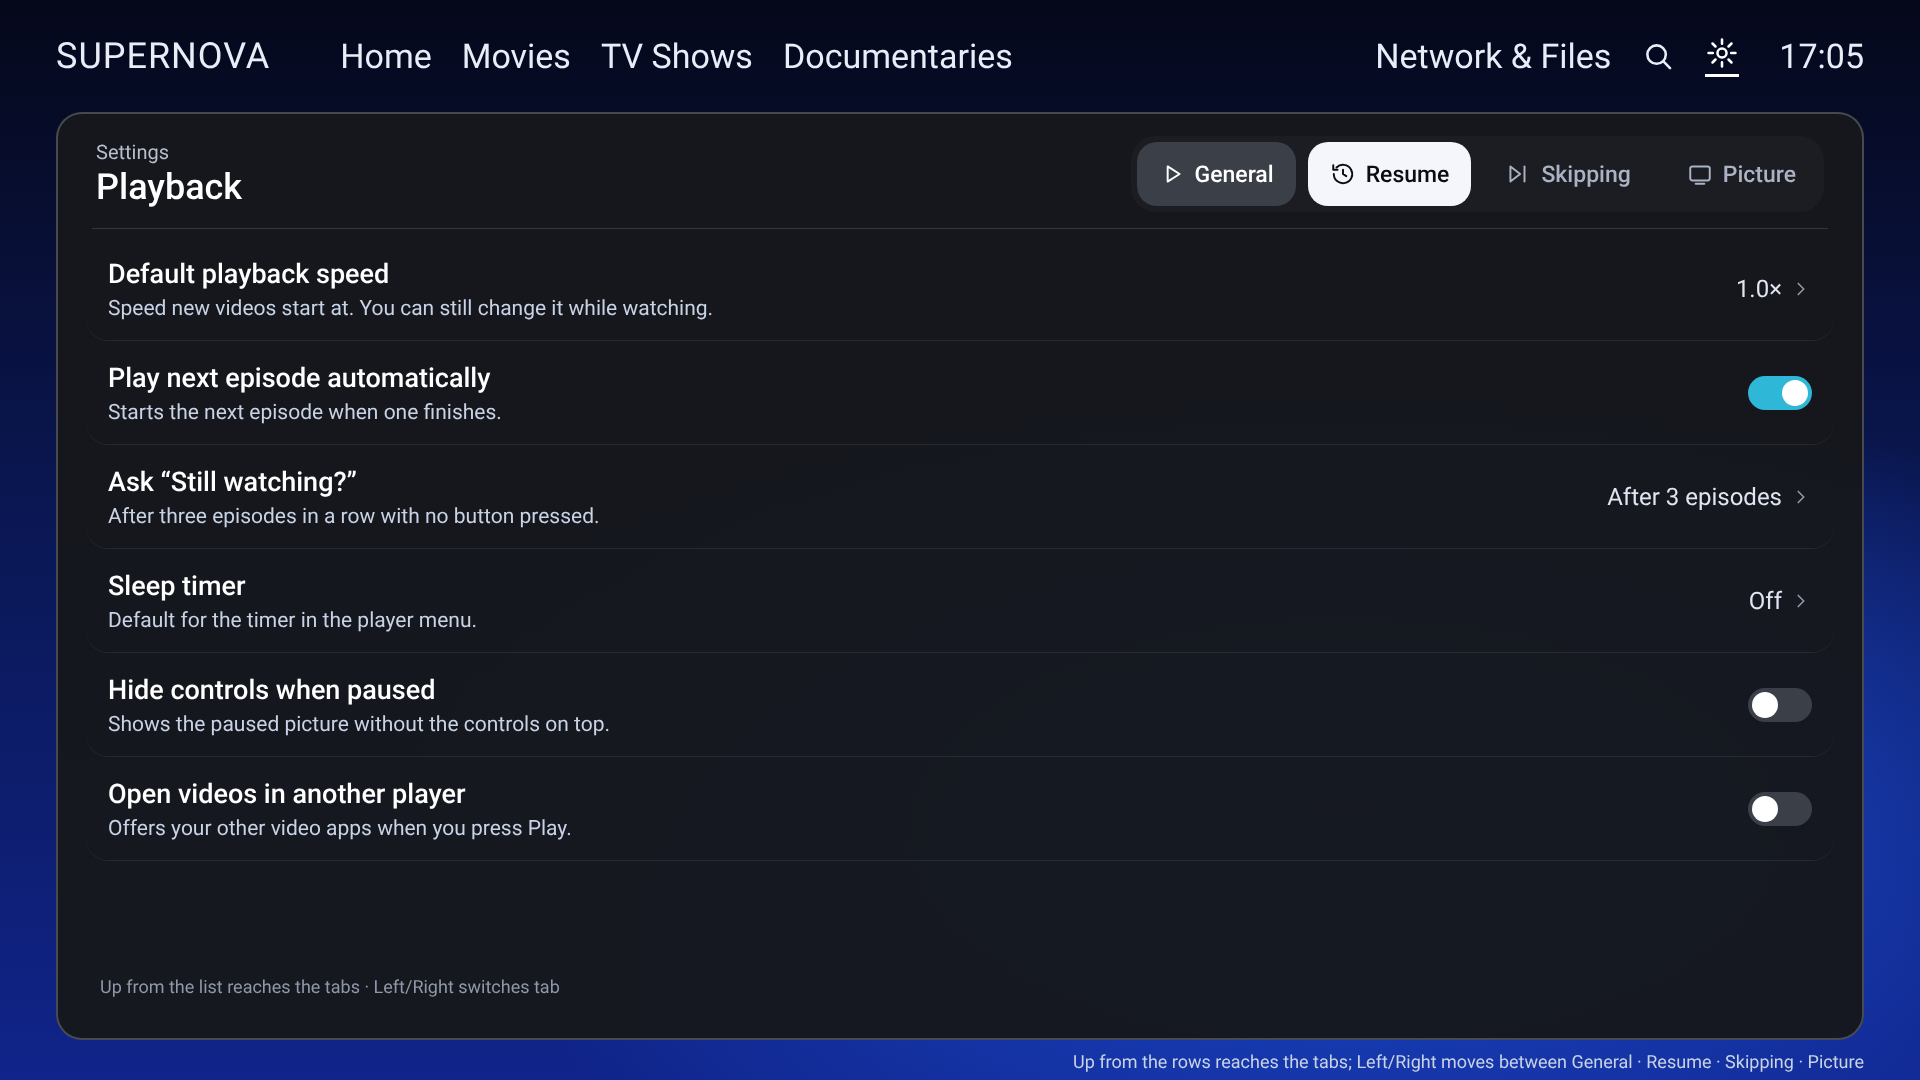
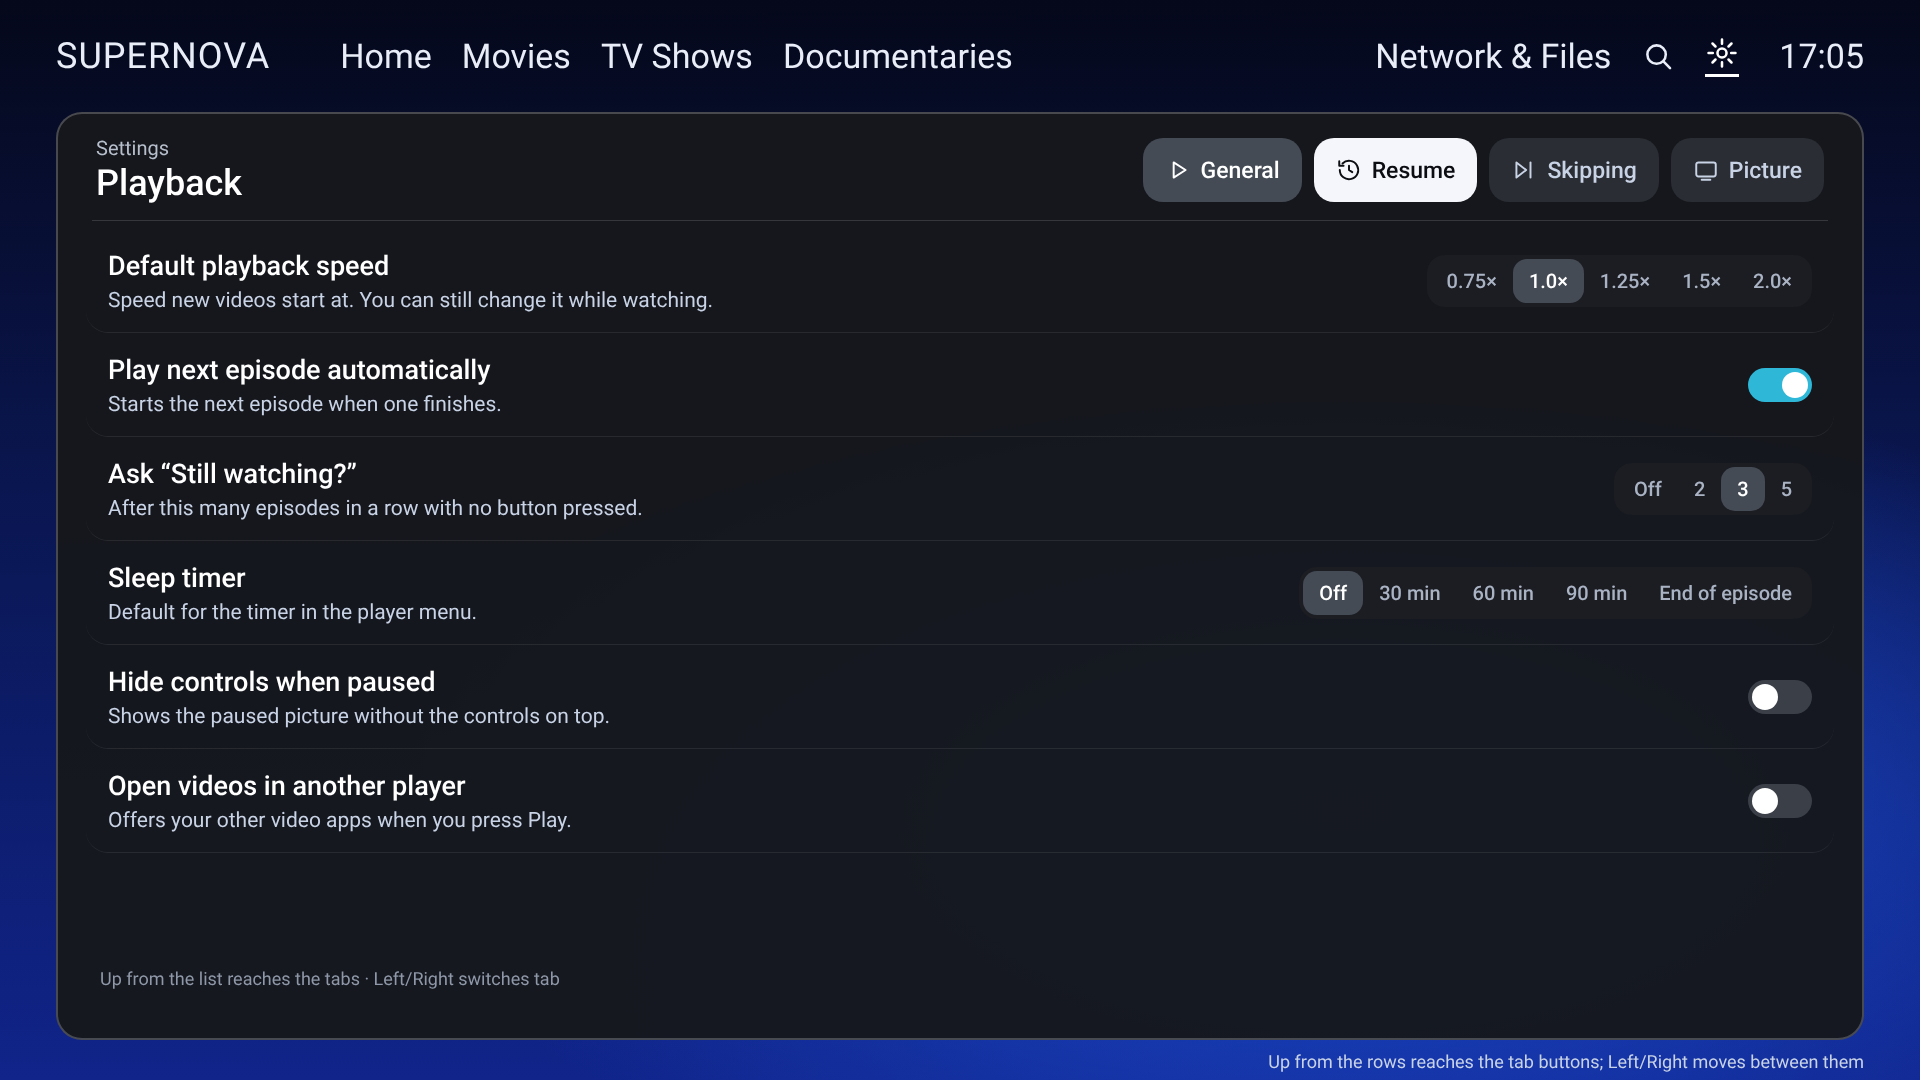
Settings 03-05: separate tab buttons, inline segmented choices
Claude-Session: https://claude.ai/code/session_01FtDZqamY6pdaUKwc7fqgiA

diff --git a/docs/design/proposals/settings/render.js b/docs/design/proposals/settings/render.js
@@ -14,11 +14,12 @@ const side = focus => `<div class="side"><div class="crumb">Settings</div><div c
 const tg = on => `<span class="tg${on ? ' on' : ''}"><i></i></span>`;
 const val = v => `<span class="sv">${v}<span class="chev">${ic('chev', 22)}</span></span>`;
 const row = (t, d, right, focus) => `<div class="r${focus ? ' f' : ''}"><div class="rt"><b>${t}</b><span>${d}</span></div>${right}</div>`;
+const seg = (opts, on, f) => `<span class="seg${f ? ' f' : ''}">${opts.map(o => `<b class="${o === on ? 'on' : ''}">${o}</b>`).join('')}</span>`;
 const page = focus => `<div class="main"><div class="grp">Playback</div>
-  ${row('Default playback speed', 'Speed new videos start at. You can still change it while watching.', val('1.0×'), focus === 'speed')}
+  ${row('Default playback speed', 'Speed new videos start at. You can still change it while watching.', seg(['0.75×', '1.0×', '1.25×', '1.5×', '2.0×'], '1.0×', focus === 'speed'), focus === 'speed')}
   ${row('Play next episode automatically', 'Starts the next episode when one finishes.', tg(true))}
-  ${row('Ask “Still watching?”', 'After three episodes in a row with no button pressed.', val('After 3 episodes'))}
-  ${row('Sleep timer', 'Default for the timer in the player menu.', val('Off'))}
+  ${row('Ask “Still watching?”', 'After this many episodes in a row with no button pressed.', seg(['Off', '2', '3', '5'], '3', focus === 'still'), focus === 'still')}
+  ${row('Sleep timer', 'Default for the timer in the player menu.', seg(['Off', '30 min', '60 min', '90 min', 'End of episode'], 'Off', focus === 'sleep'), focus === 'sleep')}
   ${row('Hide controls when paused', 'Shows the paused picture without the controls on top.', tg(false))}
   ${row('Open videos in another player', 'Offers your other video apps when you press Play.', tg(false))}
   <div class="more">Resume, Skipping and Picture are the next pages on the left</div></div>`;
@@ -29,7 +30,7 @@ const choice = `<div class="dim"></div><div class="panel"><div class="ptitle">De
 const tabs = focus => `<div class="tabs">${[['play', 'General'], ['resume', 'Resume'], ['skip', 'Skipping'], ['pic', 'Picture']].map(([k, t], i) => `<div class="tb${i === 0 ? ' open' : ''}${focus === i ? ' f' : ''}">${ic(k, 26)}<span>${t}</span></div>`).join('')}</div>`;
 const one = (focus, tabFocus) => `<div class="one"><div class="ohead"><div><div class="crumb">Settings</div><div class="stitle">Playback</div></div>${tabs(tabFocus)}</div><div class="rule"></div>
   ${page(focus).replace('<div class="main"><div class="grp">Playback</div>', '<div class="inner">').replace('Resume, Skipping and Picture are the next pages on the left', 'Up from the list reaches the tabs · Left/Right switches tab')}</div>`;
-const shots = [
+const shots0 = [
   ['03-single-panel.png', one('speed', -1), 'One panel: page title once; tabs General · Resume · Skipping · Picture as one control — the open tab is lighter, the focused tab white'],
   ['04-single-panel-tabs.png', one('', 1), 'Up from the rows reaches the tabs; Left/Right moves between General · Resume · Skipping · Picture'],
   ['01-playback.png', side(-1) + page('speed'), 'Settings › Playback: standard buttons on the left; each row says what it does in one line; one value or switch per row, level with its title'],
@@ -58,12 +59,19 @@ body{width:1920px;height:1080px;overflow:hidden;font-family:R;color:#fff;positio
 .one{position:absolute;left:56px;right:56px;top:112px;bottom:40px;border-radius:26px;background:rgba(22,24,28,.97);border:2px solid rgba(255,255,255,.22);padding:22px 28px}
 .ohead{display:flex;align-items:center;justify-content:space-between;margin:0 10px 16px}.one .crumb{margin:0}.one .stitle{margin:2px 0 0}
 .tabs{display:flex;gap:12px}.tb{position:relative;height:64px;border-radius:20px;background:#2a2d33;display:flex;align-items:center;gap:10px;padding:0 22px;font-size:23px;font-weight:500}
-.tabs{background:#1b1d22;border-radius:24px;padding:6px}.tb{background:transparent;color:#aab3c4}.tb.open{background:#3a3f48;color:#fff}.tb.f{background:#F4F6FB;color:#0B0D12}
+.tb{background:#2a2d33;color:#c9d3e6}.tb.open{background:#454b55;color:#fff}.tb.f{background:#F4F6FB;color:#0B0D12}
 .rule{height:1px;background:rgba(255,255,255,.14);margin:0 6px 8px}
 .inner{position:relative;height:calc(100% - 120px)}.inner .more{left:14px;bottom:0}
+.seg{display:inline-flex;background:#1b1d22;border-radius:18px;padding:4px;flex:none}.seg b{font-weight:500;font-size:20px;padding:10px 16px;border-radius:14px;color:#aab3c4;white-space:nowrap}
+.seg b.on{background:#454b55;color:#fff}.seg.f b.on{background:#F4F6FB;color:#0B0D12}
 .label{position:absolute;right:56px;bottom:8px;font-size:18px;color:#c9d3e6}`;
+const shotsNew = [
+  ['03-single-panel.png', one('speed', -1), 'Tabs are separate buttons (open tab lighter, focused tab white); choices sit inline in the row — Left/Right changes them, no click-through'],
+  ['04-single-panel-tabs.png', one('', 1), 'Up from the rows reaches the tab buttons; Left/Right moves between them'],
+  ['05-inline-choice-focused.png', one('sleep', -1), 'Sleep timer focused: Left/Right moves the white selection; the change is saved straight away'],
+];
 (async () => { const b = await chromium.launch(); const t = await b.newPage({ viewport: { width: 1920, height: 1080 } });
-  for (const [f, body, label] of shots) {
+  for (const [f, body, label] of shotsNew) {
     await t.setContent(`<html><head><style>${css}</style></head><body>${nav}${body}<div class="label">${label}</div></body></html>`, { waitUntil: 'load' });
     await t.evaluate(() => document.fonts.ready);
     const issues = await t.evaluate(() => { const o = [], r = e => e.getBoundingClientRect(); const mo = document.querySelector('.more');

diff --git a/docs/0.155/OWNER_NOTES.md b/docs/0.155/OWNER_NOTES.md
@@ -356,4 +356,9 @@ Codex's branch `codex/0155-code-2026-11-04` (DP-01…DP-07, TV-only stages). **N
 - **Owner (4 Nov 2026):** "Playback" appeared twice top left; dislikes the underline on the open tab. Revised `03`–`04`:
   the page title says Playback once (first tab renamed **General**, the repeated group heading removed); the tabs are
   one segmented control — the open tab a lighter charcoal, the focused tab white, no underline.
-- **Status:** single panel preferred; revised `03`–`04` awaiting the owner's look — then go-ahead to code.
+- **Owner (4 Nov 2026):** tabs as individual buttons? Choices inline to avoid click-through. Revised `03`–`05`: tabs are
+  separate standard buttons (open tab lighter charcoal, focused white); short choices are inline segmented controls in
+  the row — Left/Right changes them and saves straight away: Default speed 0.75× · 1.0× · 1.25× · 1.5× · 2.0×;
+  Still watching Off · 2 · 3 · 5 episodes; Sleep timer Off · 30 · 60 · 90 min · End of episode. Rule for all of
+  Settings: up to ~5 short options inline; longer lists (languages, countries, genres) open the side-panel list.
+- **Status:** awaiting the owner's look at `03`–`05` — then go-ahead to code.
